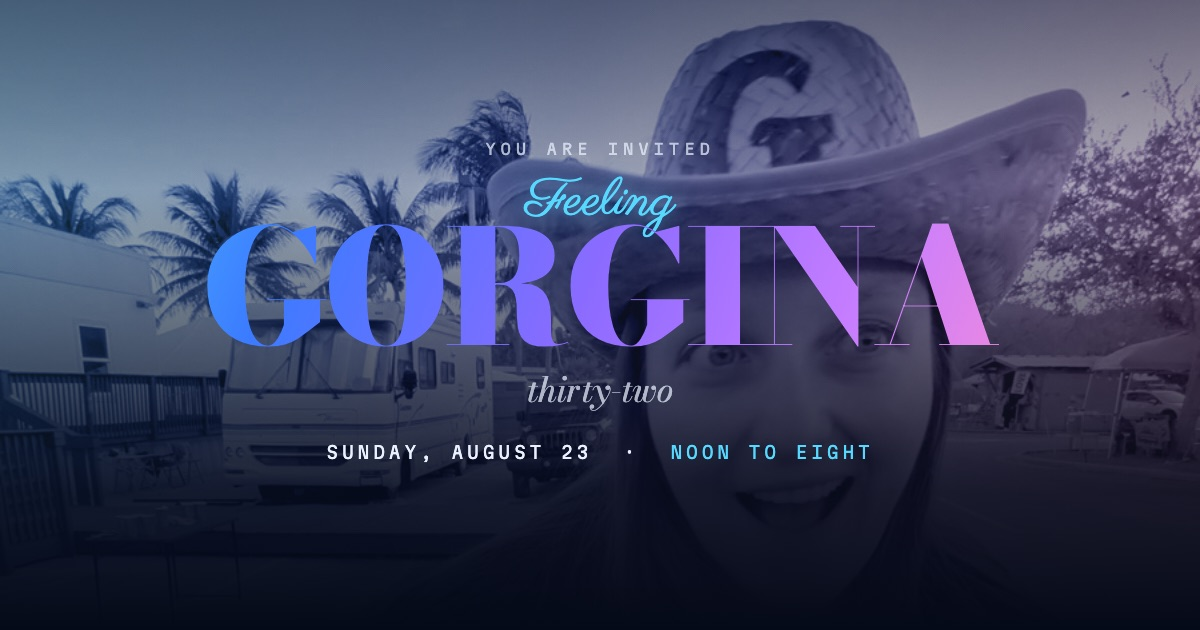
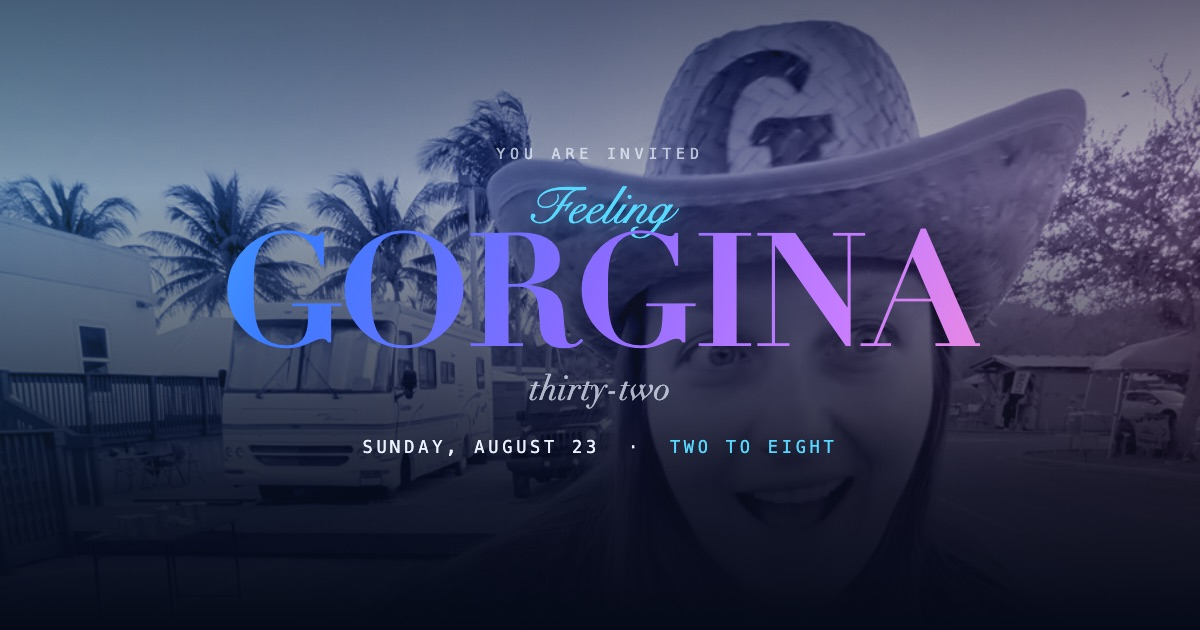
Party now runs two to eight, not noon to eight
Updated every noon reference across index.html, flyer.html, and the
docs: rail labels, hero, spec list, confirmation message, meta tags,
countdown (CONFIG.startISO), the .ics calendar file, and the OG
preview image (regenerated — it had the old time baked in as static
text).

Also this pass:
- Removed the hero scroll hint and the strip section's caption
  (along with their now-dead CSS).
- Trimmed the one-rule paragraph further (dropped the neighbors
  aside).
- Dropped "Any kids coming?" from the RSVP form entirely — cleaned
  up the CONFIG.kidsWelcome/kidsField logic that only existed to
  support it.
- Redesigned the arrival dropdown for the new 2–8 window: Earlybird
  (2–4), Sweet spot (4–6), Fashionably late (6–8).

diff --git a/index.html b/index.html
@@ -4,10 +4,10 @@
 <meta charset="utf-8">
 <meta name="viewport" content="width=device-width, initial-scale=1, viewport-fit=cover">
 <title>GORGINA — Gina's 32nd · Sunday, August 23</title>
-<meta name="description" content="Gina turns thirty-two. Backyard day party, Sunday August 23, noon to eight. Bar, food, games, music, dancing.">
+<meta name="description" content="Gina turns thirty-two. Backyard day party, Sunday August 23, two to eight. Bar, food, games, music, dancing.">
 <meta name="theme-color" content="#050A18">
 <meta property="og:title" content="GORGINA">
-<meta property="og:description" content="Gina turns thirty-two. Sunday, August 23 · Noon to eight.">
+<meta property="og:description" content="Gina turns thirty-two. Sunday, August 23 · Two to eight.">
 <meta property="og:type" content="website">
 <meta property="og:url" content="https://miuxcreative.github.io/gorgina-party/">
 <meta property="og:image" content="https://miuxcreative.github.io/gorgina-party/img/og.jpg">
@@ -15,7 +15,7 @@
 <meta property="og:image:height" content="630">
 <meta name="twitter:card" content="summary_large_image">
 <meta name="twitter:title" content="GORGINA">
-<meta name="twitter:description" content="Gina turns thirty-two. Sunday, August 23 · Noon to eight.">
+<meta name="twitter:description" content="Gina turns thirty-two. Sunday, August 23 · Two to eight.">
 <meta name="twitter:image" content="https://miuxcreative.github.io/gorgina-party/img/og.jpg">
 <link rel="preconnect" href="https://fonts.googleapis.com">
 <link rel="preconnect" href="https://fonts.gstatic.com" crossorigin>
@@ -24,7 +24,7 @@
 /* ═══════════════════════════════════════════════════════════
    GORGINA — iridescent
    Base is deep midnight. Light moves across it like oil on water.
-   The page travels noon → 8 PM: bright chrome at the top,
+   The page travels two → 8 PM: bright chrome at the top,
    near-black by the time you reach the one rule.
    ═══════════════════════════════════════════════════════════ */
 :root{
@@ -109,7 +109,7 @@ body::after{
 }
 .title i{font-style:italic;font-weight:400}
 
-/* ─── the rail: noon runs out ─── */
+/* ─── the rail: the day runs out ─── */
 .rail{
   position:sticky;top:0;z-index:60;
   background:rgba(5,10,24,.72);
@@ -207,7 +207,6 @@ body::after{
   font-family:var(--f-mono);font-size:1rem;font-weight:400;line-height:1.15;
 }
 .hero__count b i{font-style:normal;font-size:.5rem;letter-spacing:.16em;text-transform:uppercase;color:var(--pearl-45);margin-top:.25rem}
-.hero__scroll{margin:.5rem 0 0;font-family:var(--f-mono);font-size:.5625rem;letter-spacing:.2em;text-transform:uppercase;color:var(--pearl-45)}
 
 /* ═══ buttons ═══ */
 .btn{
@@ -235,7 +234,6 @@ body::after{
 
 /* ═══ gallery marquee ═══ */
 .strip{padding:2.5rem 0 .5rem;overflow:hidden}
-.strip__label{text-align:center;color:var(--pearl-45);margin:0 0 1.25rem}
 .strip__track{display:flex;gap:.55rem;width:max-content;animation:slide 44s linear infinite}
 .strip:hover .strip__track{animation-play-state:paused}
 @keyframes slide{to{transform:translateX(-50%)}}
@@ -458,8 +456,8 @@ input:focus,select:focus,textarea:focus{
 <!-- ════ the day, running out ════ -->
 <div class="rail">
   <div class="rail__in">
-    <span class="rail__cap">12 PM</span>
-    <div class="rail__track" role="img" aria-label="The party runs from noon to a hard stop at 8 PM">
+    <span class="rail__cap">2 PM</span>
+    <div class="rail__track" role="img" aria-label="The party runs from two to a hard stop at 8 PM">
       <div class="rail__fill"></div>
       <div class="rail__end"></div>
       <div class="rail__dot"></div>
@@ -476,19 +474,17 @@ input:focus,select:focus,textarea:focus{
     <span class="hero__feeling">Feeling</span>
     <h1 class="hero__name foil">Gorgina</h1>
     <span class="hero__age"><i>thirty-two</i></span>
-    <p class="hero__when">Sunday, August 23 &nbsp;·&nbsp; <b>Noon to eight</b></p>
+    <p class="hero__when">Sunday, August 23 &nbsp;·&nbsp; <b>Two to eight</b></p>
     <div class="hero__count" id="countdown"></div>
     <div class="btnrow">
       <a class="btn btn--lg" href="#rsvp">RSVP</a>
       <button class="btn btn--glass" type="button" id="calBtn">Add to calendar</button>
     </div>
-    <p class="hero__scroll">Scroll — the day runs out</p>
   </div>
 </header>
 
 <!-- ════ photo strip ════ -->
 <section class="strip" id="strip" hidden>
-  <p class="label strip__label">The birthday girl, exhibits A through J</p>
   <div class="strip__track" id="stripTrack"></div>
 </section>
 
@@ -499,7 +495,7 @@ input:focus,select:focus,textarea:focus{
     <h2 class="title">Quick facts, <i>zero fluff</i></h2>
     <dl class="spec">
       <div><dt>Who</dt><dd>Gina. Turning thirty-two. Insisting it's low-key.</dd></div>
-      <div><dt>When</dt><dd>Sunday, August 23<small>Doors at noon. Hard stop at eight.</small></dd></div>
+      <div><dt>When</dt><dd>Sunday, August 23<small>Doors at two. Hard stop at eight.</small></dd></div>
       <div><dt>Where</dt><dd>The backyard<small id="specAddr">Address goes here</small></dd></div>
       <div><dt>Wear</dt><dd id="specWear">Whatever you feel Gorgina in<small>It's grass and sunshine. Plan your shoes accordingly.</small></dd></div>
       <div><dt>Bring</dt><dd id="specBring">Yourself, and a will to party.</dd></div>
@@ -593,7 +589,7 @@ input:focus,select:focus,textarea:focus{
     <p class="label sec__label foil" style="margin-bottom:1.5rem">The one rule</p>
     <p class="rule__time foil">8:00</p>
     <h2 class="rule__title">and then the lights go out</h2>
-    <p>Eight o'clock is a real stop — HOA rules, not us being dramatic. Our neighbors are great about it; let's keep it that way. Come early and get the whole day out of it.</p>
+    <p>Eight o'clock is a real stop — HOA rules, not us being dramatic. Come early and get the whole day out of it.</p>
     <hr class="rule__hr">
   </div>
 </section>
@@ -619,21 +615,13 @@ input:focus,select:focus,textarea:focus{
           </div>
         </fieldset>
 
-        <div class="field" id="kidsField">
-          <label for="f-kids">Any kids coming?</label>
-          <select id="f-kids" name="kids">
-            <option value="0">No kids</option><option value="1">1</option><option value="2">2</option><option value="3+">3 or more</option>
-          </select>
-        </div>
-
         <div class="field">
-          <label for="f-arrival">When are you landing?<span class="hint">Helps us stagger the food.</span></label>
+          <label for="f-arrival">When are you arriving?<span class="hint">Helps us plan the festivities.</span></label>
           <select id="f-arrival" name="arrival">
-            <option value="">Not sure yet</option>
-            <option value="12-1 opening">Noon to one — opening</option>
-            <option value="1-3 full swing">One to three — full swing</option>
-            <option value="3-5 second wind">Three to five — second wind</option>
-            <option value="5-7 golden hour">Five to seven — golden hour</option>
+            <option value="">I don't know</option>
+            <option value="2-4 earlybird">Two to four — earlybird</option>
+            <option value="4-6 sweet spot">Four to six — sweet spot</option>
+            <option value="6-8 fashionably late">Six to eight — fashionably late</option>
           </select>
         </div>
 
@@ -676,7 +664,7 @@ input:focus,select:focus,textarea:focus{
       <div class="done" id="done" hidden>
         <div class="done__mark" aria-hidden="true"></div>
         <h3 id="doneTitle">You're in</h3>
-        <p id="doneMsg">Sunday, August 23, noon to eight. Clear your calendar — or just tap the button below — and don't be the person who arrives at 7:45.</p>
+        <p id="doneMsg">Sunday, August 23, two to eight. Clear your calendar — or just tap the button below — and don't be the person who arrives at 7:45.</p>
         <div class="btnrow">
           <button class="btn btn--glass" type="button" id="calBtn2">Add to calendar</button>
           <a class="btn btn--glass" id="mapsLink2" href="#" target="_blank" rel="noopener">Open in Maps</a>
@@ -702,8 +690,7 @@ const CONFIG = {
   hostPhone:    "",
   dressCode:    "Whatever you feel Gorgina in",
   bringLine:    "Yourself, and a will to party.",
-  kidsWelcome:  true,
-  startISO:     "2026-08-23T12:00:00-04:00",
+  startISO:     "2026-08-23T14:00:00-04:00",
   endISO:       "2026-08-23T20:00:00-04:00",
 
   /* ── PHOTOS ────────────────────────────────────────────────
@@ -835,9 +822,6 @@ if(CONFIG.photoTreatment !== 'duotone'){ document.body.classList.remove('tone');
   document.getElementById('mapsLink').href = mapsHref;
   document.getElementById('mapsLink2').href = mapsHref;
 
-  if(!CONFIG.kidsWelcome){
-    document.getElementById('kidsField').hidden = true;
-  }
   if(CONFIG.hostPhone){
     const tel = CONFIG.hostPhone.replace(/[^0-9+]/g,'');
     const line = document.getElementById('footPhone');
@@ -891,7 +875,7 @@ function downloadICS(){
     'DTSTART:'+icsStamp(CONFIG.startISO),'DTEND:'+icsStamp(CONFIG.endISO),
     'SUMMARY:GORGINA \u2014 Gina\u2019s 32nd',
     'LOCATION:'+CONFIG.address.replace(/,/g,'\\,'),
-    'DESCRIPTION:Backyard day party. Noon to eight\\, hard stop at 8. Bar\\, food\\, games\\, music\\, dancing. Take an Uber.',
+    'DESCRIPTION:Backyard day party. Two to eight\\, hard stop at 8. Bar\\, food\\, games\\, music\\, dancing. Take an Uber.',
     'END:VEVENT','END:VCALENDAR'].join('\r\n');
   const url = URL.createObjectURL(new Blob([ics],{type:'text/calendar'}));
   const a = document.createElement('a');
@@ -981,7 +965,7 @@ form.addEventListener('submit', async function(e){
 
   const payload = new URLSearchParams();
   payload.append('timestamp', new Date().toISOString());
-  ['name','kids','arrival','contact','note'].forEach(function(k){
+  ['name','arrival','contact','note'].forEach(function(k){
     const el = form.elements[k];
     payload.append(k, el ? el.value : '');
   });

diff --git a/flyer.html b/flyer.html
@@ -156,14 +156,14 @@ body{
 
   <div class="layer">
     <div class="top">
-      <span>12 PM</span><div class="line"></div><span>8 PM</span>
+      <span>2 PM</span><div class="line"></div><span>8 PM</span>
     </div>
     <p class="kicker">You are invited</p>
 
     <div class="mid">
       <h1 class="name">Gorgina</h1>
       <span class="age">thirty-two</span>
-      <p class="when">Sunday, August 23<b>Noon to eight · The backyard</b></p>
+      <p class="when">Sunday, August 23<b>Two to eight · The backyard</b></p>
     </div>
 
     <div class="list">

diff --git a/SETUP-google-sheet.md b/SETUP-google-sheet.md
@@ -186,8 +186,7 @@ Everything editable lives in one block at the bottom of `gorgina-rsvp.html`:
 | `hostPhone` | Optional. If filled, adds a "text us" line in the footer. |
 | `dressCode` | The "Wear" line. |
 | `bringLine` | The "Bring" line. |
-| `kidsWelcome` | `false` hides the kids dropdown on the RSVP form. |
-| `startISO` / `endISO` | Used by the countdown and the calendar file. Already set to Aug 23, 12–8 ET. |
+| `startISO` / `endISO` | Used by the countdown and the calendar file. Already set to Aug 23, 2–8 ET. |
 
 ---
 

diff --git a/README.md b/README.md
@@ -1,6 +1,6 @@
 # Gorgina
 
-Gina's 32nd birthday — backyard day party, Sunday August 23, noon to eight.
+Gina's 32nd birthday — backyard day party, Sunday August 23, two to eight.
 
 - `index.html` — the RSVP page (this is what GitHub Pages serves at the root)
 - `flyer.html` — the shareable 1080×1350 flyer, with PNG export
